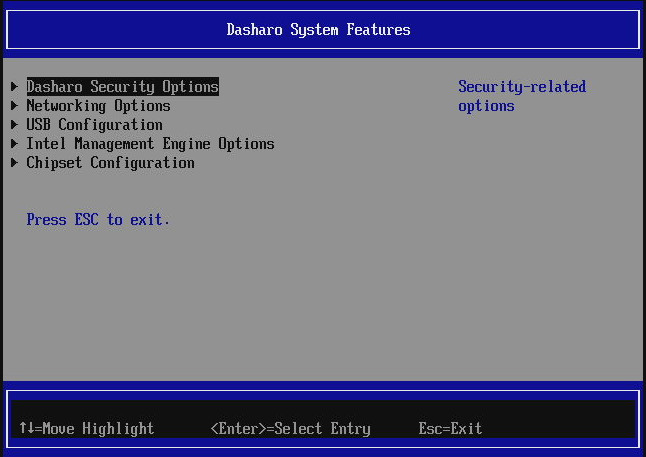
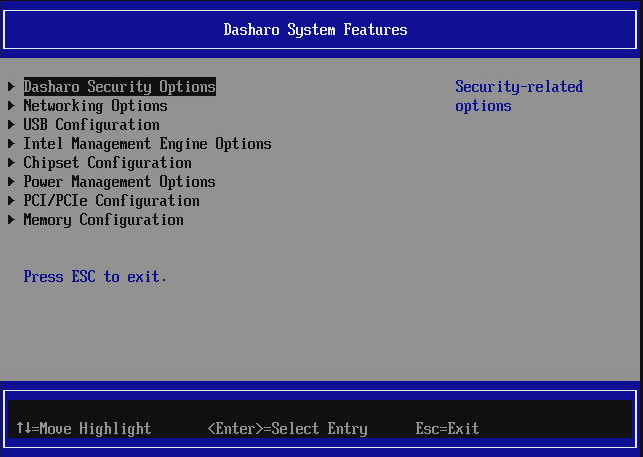
Add new MSI options

diff --git a/docs/dasharo-menu-docs/dasharo-system-features.md b/docs/dasharo-menu-docs/dasharo-system-features.md
@@ -156,6 +156,54 @@ Flow chart for the two settings mentioned above:
 
 ![](/images/battery_threshold_flowchart.png){class="center"}
 
+- `Power state after power failure` - controls what power state the platform
+  should switch to when the main AC power is restored. Default value is
+  platform-dependent.
+
+![](/images/menus/pwf_fail_opt.jpeg){ class="center" }
+
+## PCI/PCIe Configuration
+
+The submenu contains options related to PCI and PCI Express devices and
+subsystem.
+
+![](/images/menus/dasharo_pci_opts.jpeg){ class="center" }
+
+- `Enable PCIe Resizable BARs` - enables/disables the PCIe Resizable BARs
+  during PCI enumeration process. If enabled, the PCI Express devices
+  advertising more suitable memory resources, will be configured to use those
+  resources (that typically means bigger memory resources assigned to the
+  device). By default this option is disabled for compatibility reasons.
+
+![](/images/menus/rebar_default_flow.png){ class="center" }
+
+![](/images/menus/rebar_flow.png){ class="center" }
+
+- `OptionROM Execution Policy` - controls which OptionROMs are allowed to be
+  loaded and run. Default value may depend on platform (either `Disable all`
+  or `Enable All`)
+
+![](/images/menus/optionrom_default_flow.png){ class="center" }
+
+![](/images/menus/optionrom_flow.png){ class="center" }
+
+## Memory Configuration
+
+The submenu contains options related to RAM memory configuration.
+
+![](/images/menus/dasharo_mem_opts1.jpeg){ class="center" }
+![](/images/menus/dasharo_mem_opts2.jpeg){ class="center" }
+
+- `Memory SPD profile` - chooses the memory overclocking profile to use when
+  training the memory. Custom profiles are not yet supported. Currently, there
+  is no detection between DDR4 and DDR5 memory, so `XMP#3` profile is only
+  eligible for DDR5.
+
+**WARNING**: Changing this value may brick your system. Be sure to have a
+recovery method before modifying this setting. You have been warned.
+
+![](/images/menus/spd_profile_flow.png){ class="center" }
+
 ## Additional information
 
 NOTE: Pressing F9 to reset to defaults resets **all settings**, not only the one
